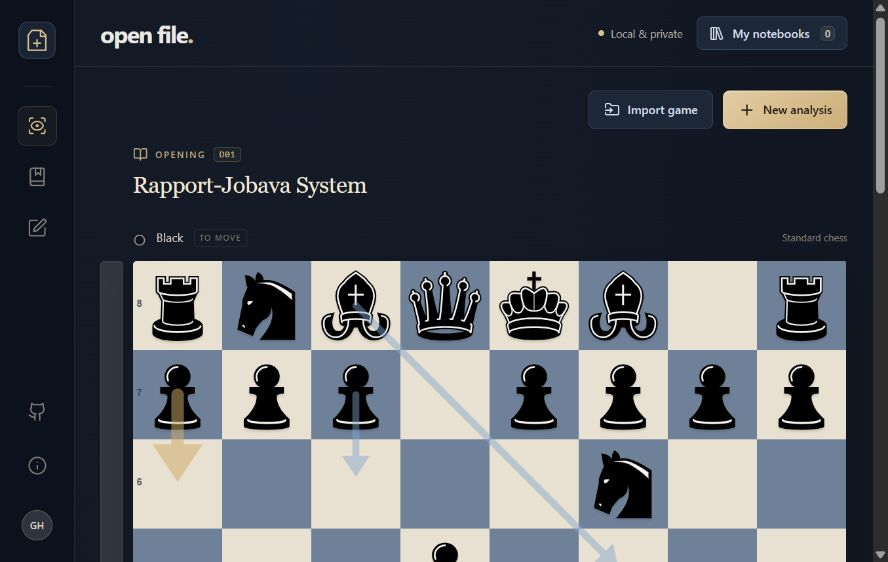
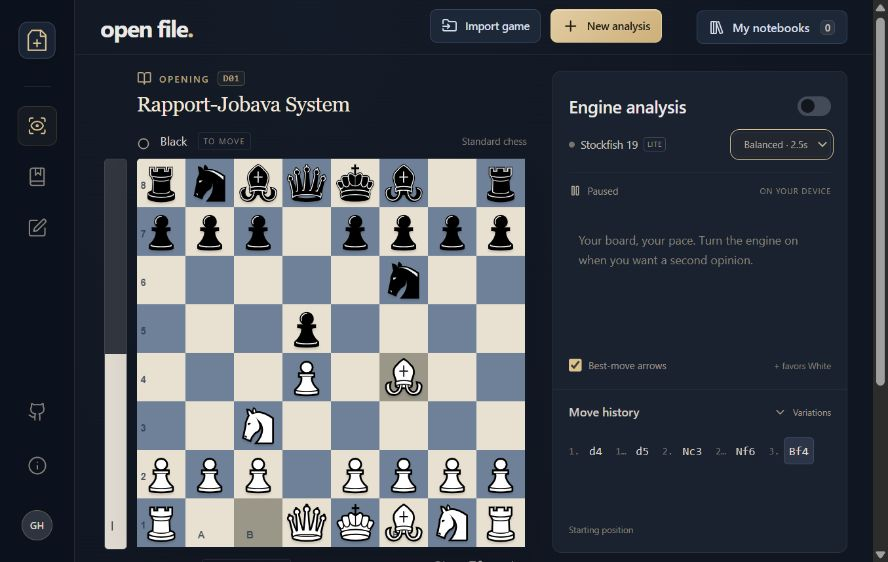
Fit board and opening to the actual window height

diff --git a/src/lib/useBoardFit.ts b/src/lib/useBoardFit.ts
@@ -1,0 +1,43 @@
+import { useLayoutEffect, useRef } from 'react';
+
+/** Fit the whole board below its opening heading using the actual layout,
+ * rather than a fixed size or an estimated header-height subtraction. */
+export function useBoardFit() {
+  const column = useRef<HTMLElement>(null);
+  useLayoutEffect(() => {
+    const element = column.current;
+    if (!element) return;
+    let frame = 0;
+    const measure = () => {
+      const board = element.querySelector<HTMLElement>('.board-frame');
+      const wrapper = element.querySelector<HTMLElement>('.board-with-eval');
+      if (!board || !wrapper) return;
+      const boardTop = board.getBoundingClientRect().top + window.scrollY;
+      const gutter = wrapper.getBoundingClientRect().width - board.getBoundingClientRect().width;
+      const height = window.visualViewport?.height ?? window.innerHeight;
+      const size = Math.max(120, Math.floor(height - boardTop - 12));
+      const value = `${Math.floor(size + gutter)}px`;
+      if (element.style.getPropertyValue('--board-fit-width') !== value)
+        element.style.setProperty('--board-fit-width', value);
+    };
+    const schedule = () => {
+      cancelAnimationFrame(frame);
+      frame = requestAnimationFrame(measure);
+    };
+    const observer = new ResizeObserver(schedule);
+    observer.observe(element);
+    if (element.parentElement) observer.observe(element.parentElement);
+    const header = document.querySelector('.app-header');
+    if (header) observer.observe(header);
+    window.addEventListener('resize', schedule);
+    window.visualViewport?.addEventListener('resize', schedule);
+    measure();
+    return () => {
+      observer.disconnect();
+      cancelAnimationFrame(frame);
+      window.removeEventListener('resize', schedule);
+      window.visualViewport?.removeEventListener('resize', schedule);
+    };
+  }, []);
+  return column;
+}

diff --git a/src/App.tsx b/src/App.tsx
@@ -51,6 +51,7 @@ import { findOpening, type OpeningMap } from './lib/openings';
 import { downloadFile, readLibrary, writeLibrary, type SavedStudy } from './lib/storage';
 import { formatScore, type EngineLine } from './engine/controller';
 import { useEngine } from './engine/useEngine';
+import { useBoardFit } from './lib/useBoardFit';
 
 const DRAFT = 'open-file:workspace:v1';
 const SAMPLE =
@@ -92,6 +93,7 @@ function pvMoves(fen: string, line: EngineLine) {
 type Modal = 'import' | 'export' | 'editor' | 'library' | 'about' | 'new' | null;
 
 export default function App() {
+  const boardColumn = useBoardFit();
   const [initial] = useState(readDraft);
   const [study, setStudy] = useState(initial.study);
   const [savedId, setSavedId] = useState<string | null>(initial.id);
@@ -444,7 +446,7 @@ export default function App() {
             </div>
           )}
           <div className="workspace-grid">
-            <section className="board-column">
+            <section className="board-column" ref={boardColumn}>
               <div className="board-opening" aria-live="polite">
                 <div className="board-opening-label">
                   <BookOpen size={15} />

diff --git a/src/styles.css b/src/styles.css
@@ -1937,3 +1937,62 @@ body {
     display: flex;
   }
 }
+
+/* Keep the complete board and opening in the first screen. The hook measures
+   the real space above the board, including wrapping opening names. */
+.board-column {
+  width: 100%;
+  max-width: min(100%, var(--board-fit-width, 100%));
+  justify-self: center;
+}
+.board-opening {
+  min-height: 0;
+  margin-bottom: 10px;
+}
+.board-opening-label {
+  margin-bottom: 5px;
+}
+.board-opening h1 {
+  font-size: 21px;
+}
+.board-meta {
+  height: 28px;
+}
+.bottom-meta {
+  height: 38px;
+}
+@media (min-width: 621px) {
+  .main-shell {
+    position: relative;
+  }
+  .app-header {
+    height: 56px;
+  }
+  .local-badge {
+    display: none;
+  }
+  main {
+    padding-top: 16px;
+  }
+  .workspace-heading {
+    position: absolute;
+    top: 9px;
+    right: 215px;
+    margin: 0;
+  }
+  .workspace-actions .primary,
+  .workspace-actions .secondary {
+    min-height: 34px;
+    padding: 8px 11px;
+    font-size: 11px;
+  }
+}
+@media (min-width: 900px) {
+  .workspace-grid {
+    grid-template-columns: minmax(0, 1.6fr) minmax(300px, 1fr);
+    max-width: none;
+  }
+  .analysis-column {
+    display: flex;
+  }
+}

diff --git a/README.md b/README.md
@@ -34,6 +34,7 @@ npm run format   # format application source and documentation
 
 ## Explore
 
+- The board measures the available window height so its opening heading and all eight ranks fit together without scrolling. Resize the window and it adjusts automatically.
 - Drag a piece or click its starting and destination squares. Legal destinations are highlighted. Castling, en passant, and all four promotion choices are supported.
 - Stockfish analyzes each position locally, shows up to three candidate lines, and draws best-move arrows. Click a continuation move to add that sequence to your notebook.
 - Choose 1, 2.5, 8, or 20 seconds per position, pause analysis, or retry a failed engine. All scores favor White when positive. Mate scores are shown separately.

diff --git a/docs/VERIFICATION.md b/docs/VERIFICATION.md
@@ -25,4 +25,6 @@ Performed on Windows, Node 24.18.0, on 2026-10-21.
 
 ## Limits of verification
 
+The 2026-10-22 layout update was also checked in the user's 903×571 browser window: the 397-pixel board ends at pixel 559, the opening heading is visible above it, and the page is at scroll position zero. Observed layout measurements adjust the board when the window or opening heading changes.
+
 Only the available Chromium-based in-app browser was exercised manually. Safari, Firefox, touch gestures on physical devices, and very large PGN libraries were not exercised. Static-host deployment is not performed. Production-subdirectory behavior was checked locally; the actual host's MIME types and caching should be checked before publishing.
